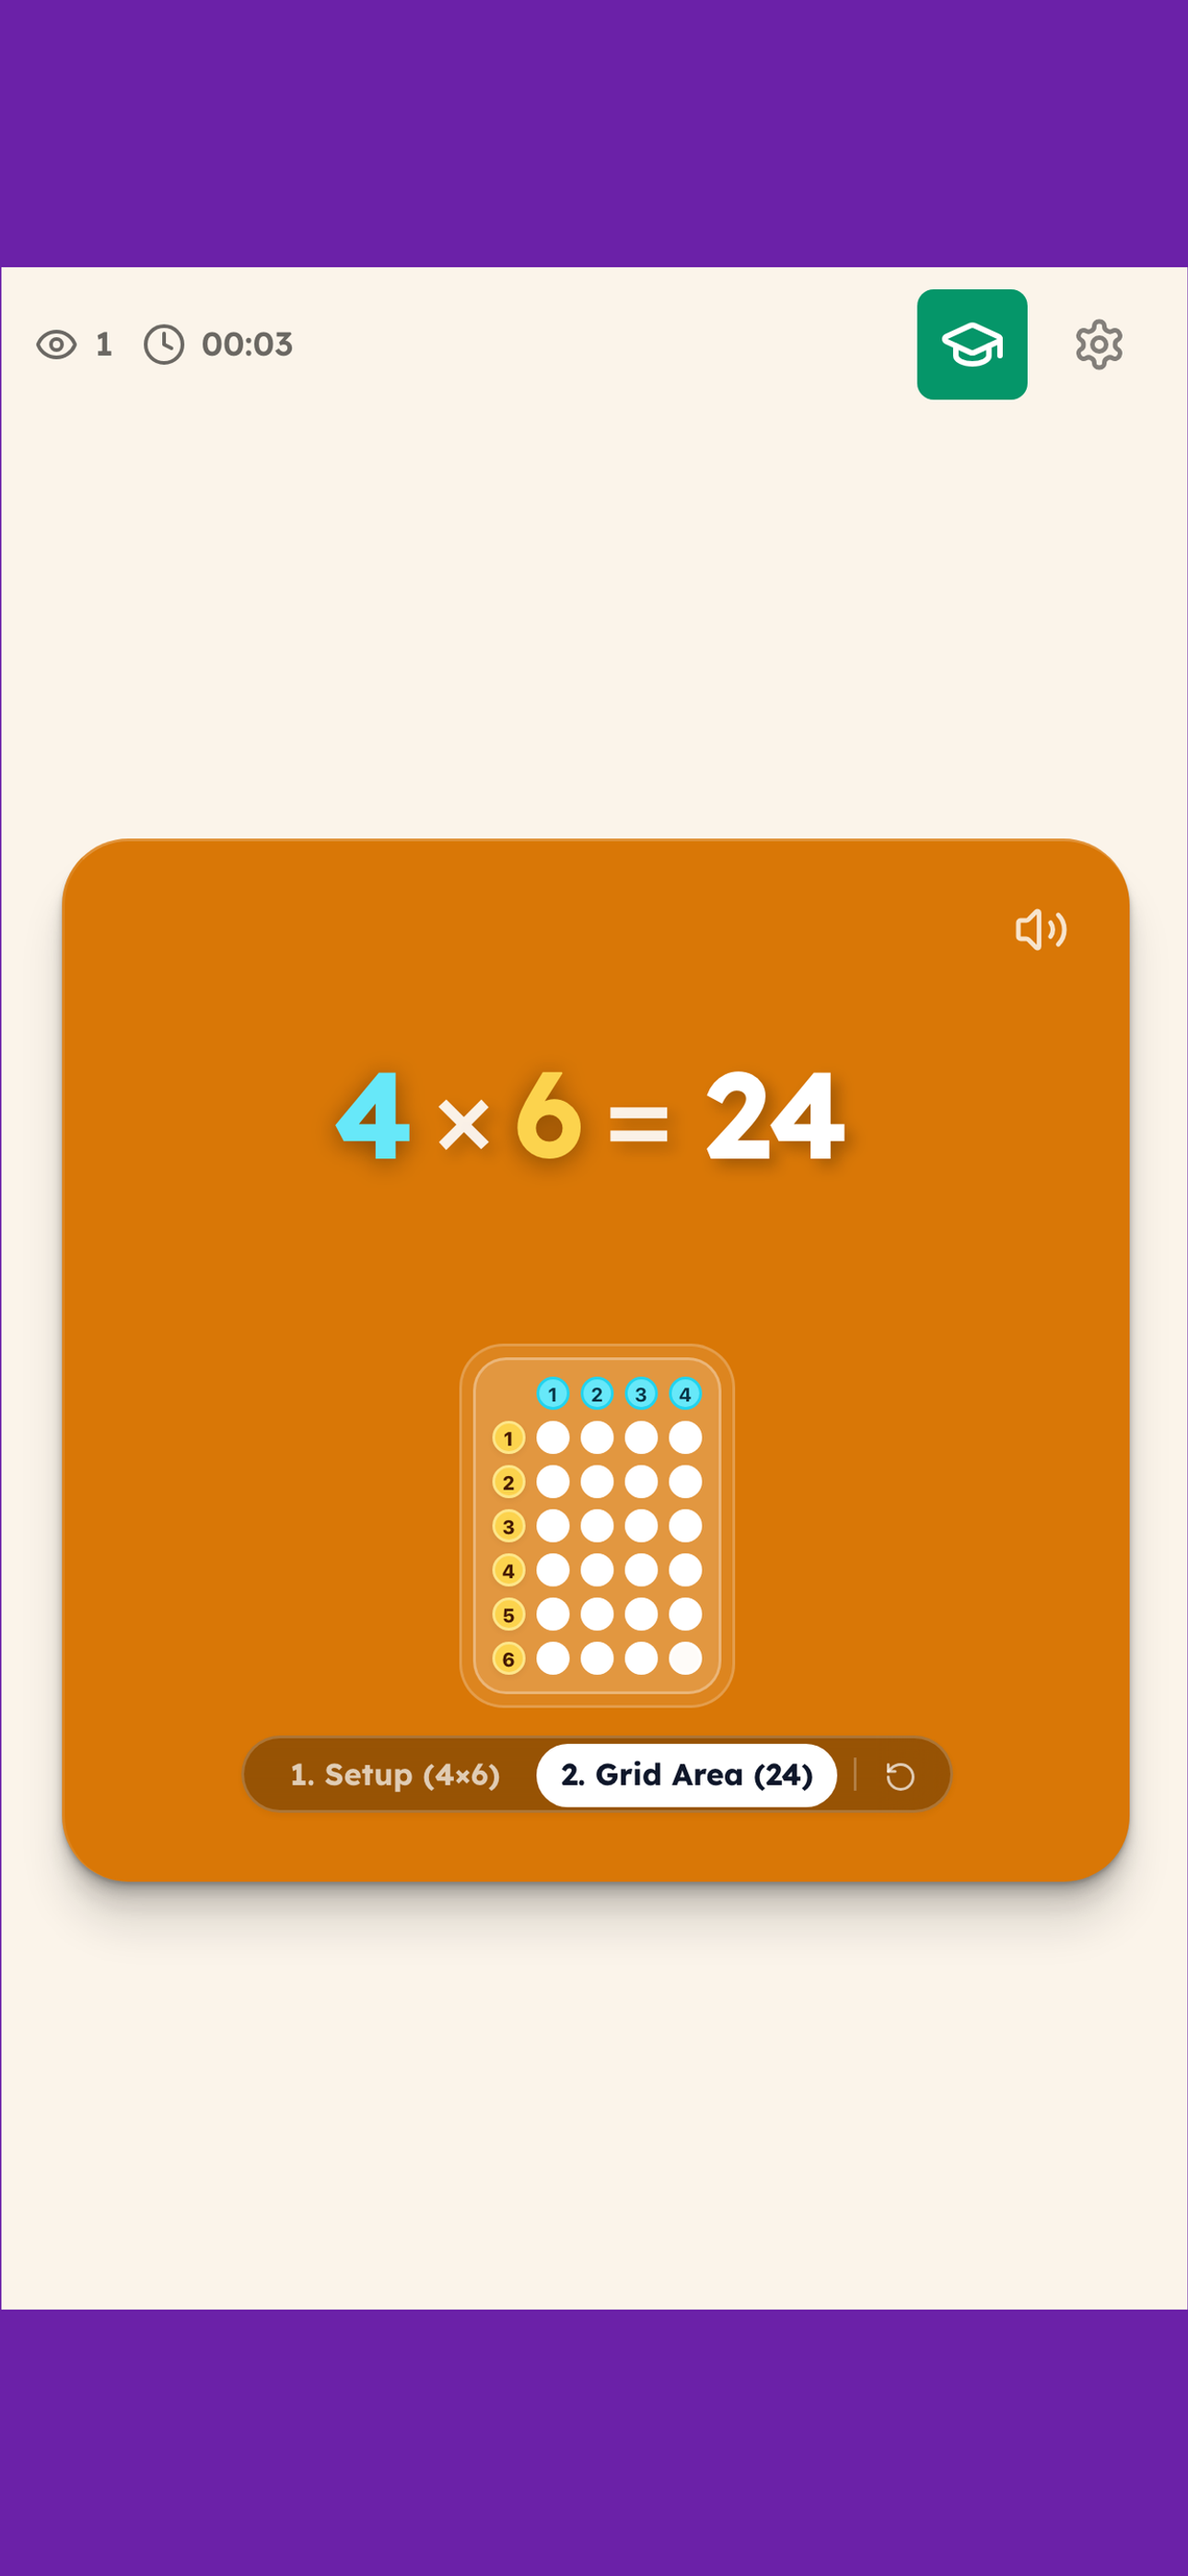
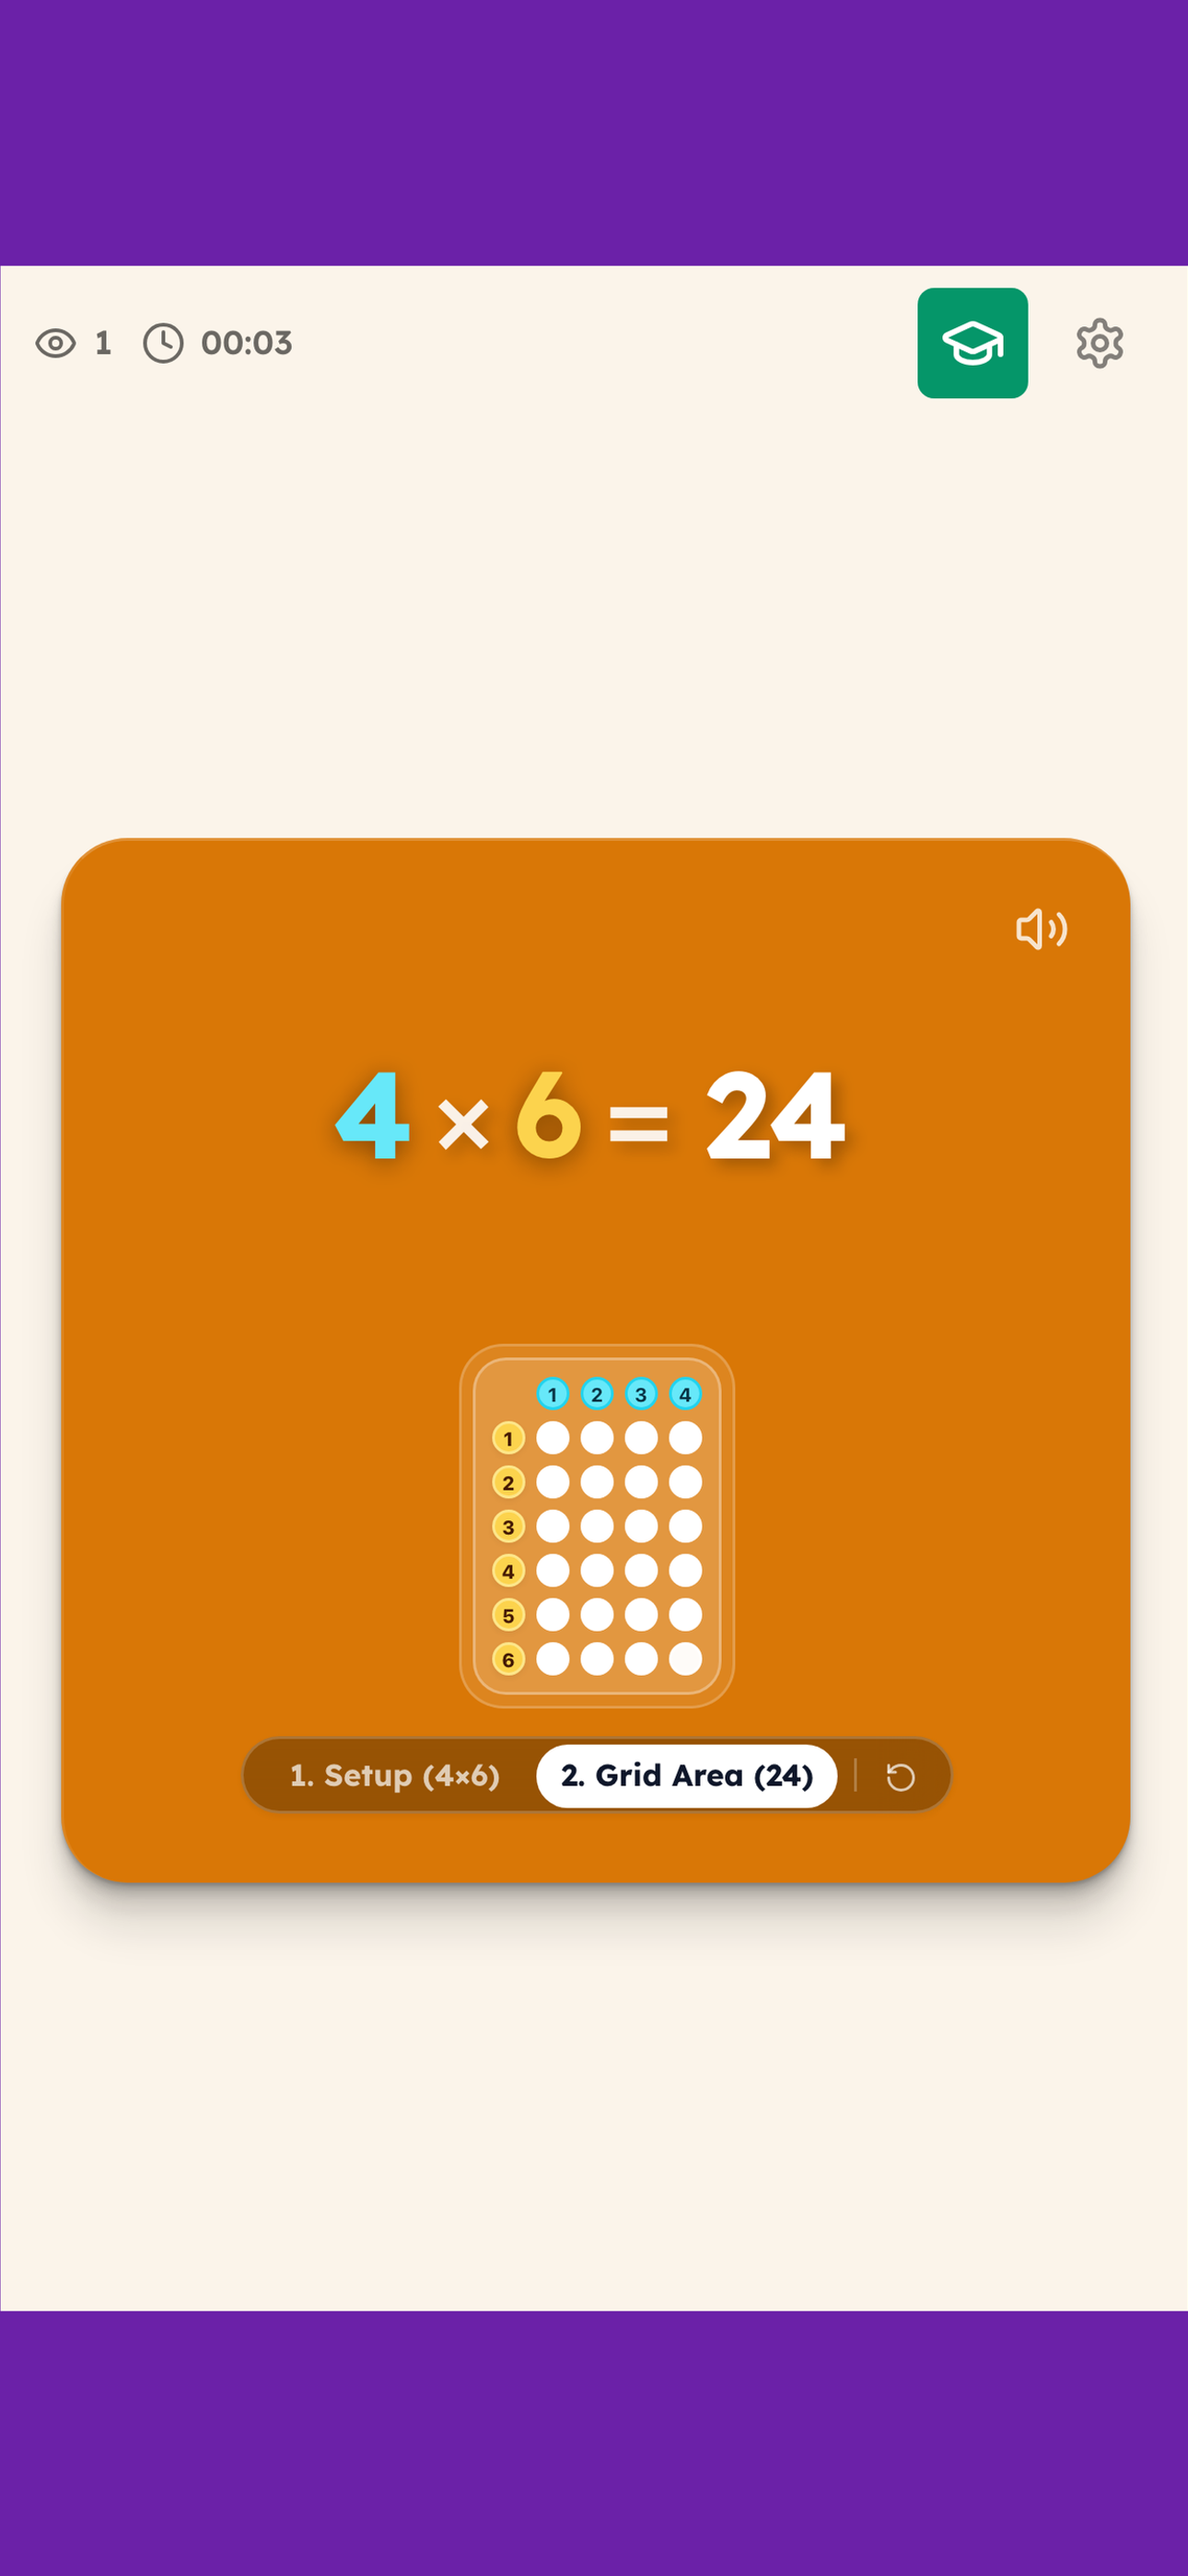
fix(mobile): convert store screenshots to edge-to-edge full bleed layout (removed purple padding bars)

diff --git a/scripts/resize-app-store-screenshots.ts b/scripts/resize-app-store-screenshots.ts
@@ -9,12 +9,12 @@ const dirs = [
 
 // Apple App Store Connect Exact Dimension Requirements
 const SPECS = [
-  { displayType: 'APP_IPHONE_65', width: 1242, height: 2688, suffix: '' },      // 6.5" Display (iPhone XS Max, 11 Pro Max, 14 Plus)
-  { displayType: 'APP_IPHONE_67', width: 1290, height: 2796, suffix: '-67' },   // 6.7" Display (iPhone 14 Pro Max, 15 Pro Max, 16 Pro Max)
+  { displayType: 'APP_IPHONE_65', width: 1242, height: 2688, suffix: '' },      // 6.5" Display
+  { displayType: 'APP_IPHONE_67', width: 1290, height: 2796, suffix: '-67' },   // 6.7" Display
 ];
 
 async function resizeScreenshots() {
-  console.log(`📐 Generating Apple compliant screenshot resolutions...`);
+  console.log(`📐 Generating edge-to-edge full bleed Apple screenshots (no purple bars)...`);
 
   for (const dir of dirs) {
     if (!fs.existsSync(dir)) continue;
@@ -37,20 +37,21 @@ async function resizeScreenshots() {
         const outPath = path.join(dir, outName);
         const tempPath = path.join(dir, `temp_${outName}`);
 
+        // Use fit: 'cover' for full bleed edge-to-edge screenshots with zero letterboxing bars
         await sharp(srcPath)
           .resize(spec.width, spec.height, {
-            fit: 'contain',
-            background: { r: 107, g: 33, b: 168, alpha: 1 },
+            fit: 'cover',
+            position: 'center',
           })
           .toFile(tempPath);
 
         fs.renameSync(tempPath, outPath);
-        console.log(`  ✓ Created ${path.basename(dir)}/${outName} -> ${spec.width}x${spec.height} (${spec.displayType})`);
+        console.log(`  ✓ Created edge-to-edge ${path.basename(dir)}/${outName} -> ${spec.width}x${spec.height}`);
       }
     }
   }
 
-  console.log("✨ All Apple compliant screenshot sets created!");
+  console.log("✨ All edge-to-edge screenshots generated!");
 }
 
 resizeScreenshots().catch(console.error);
